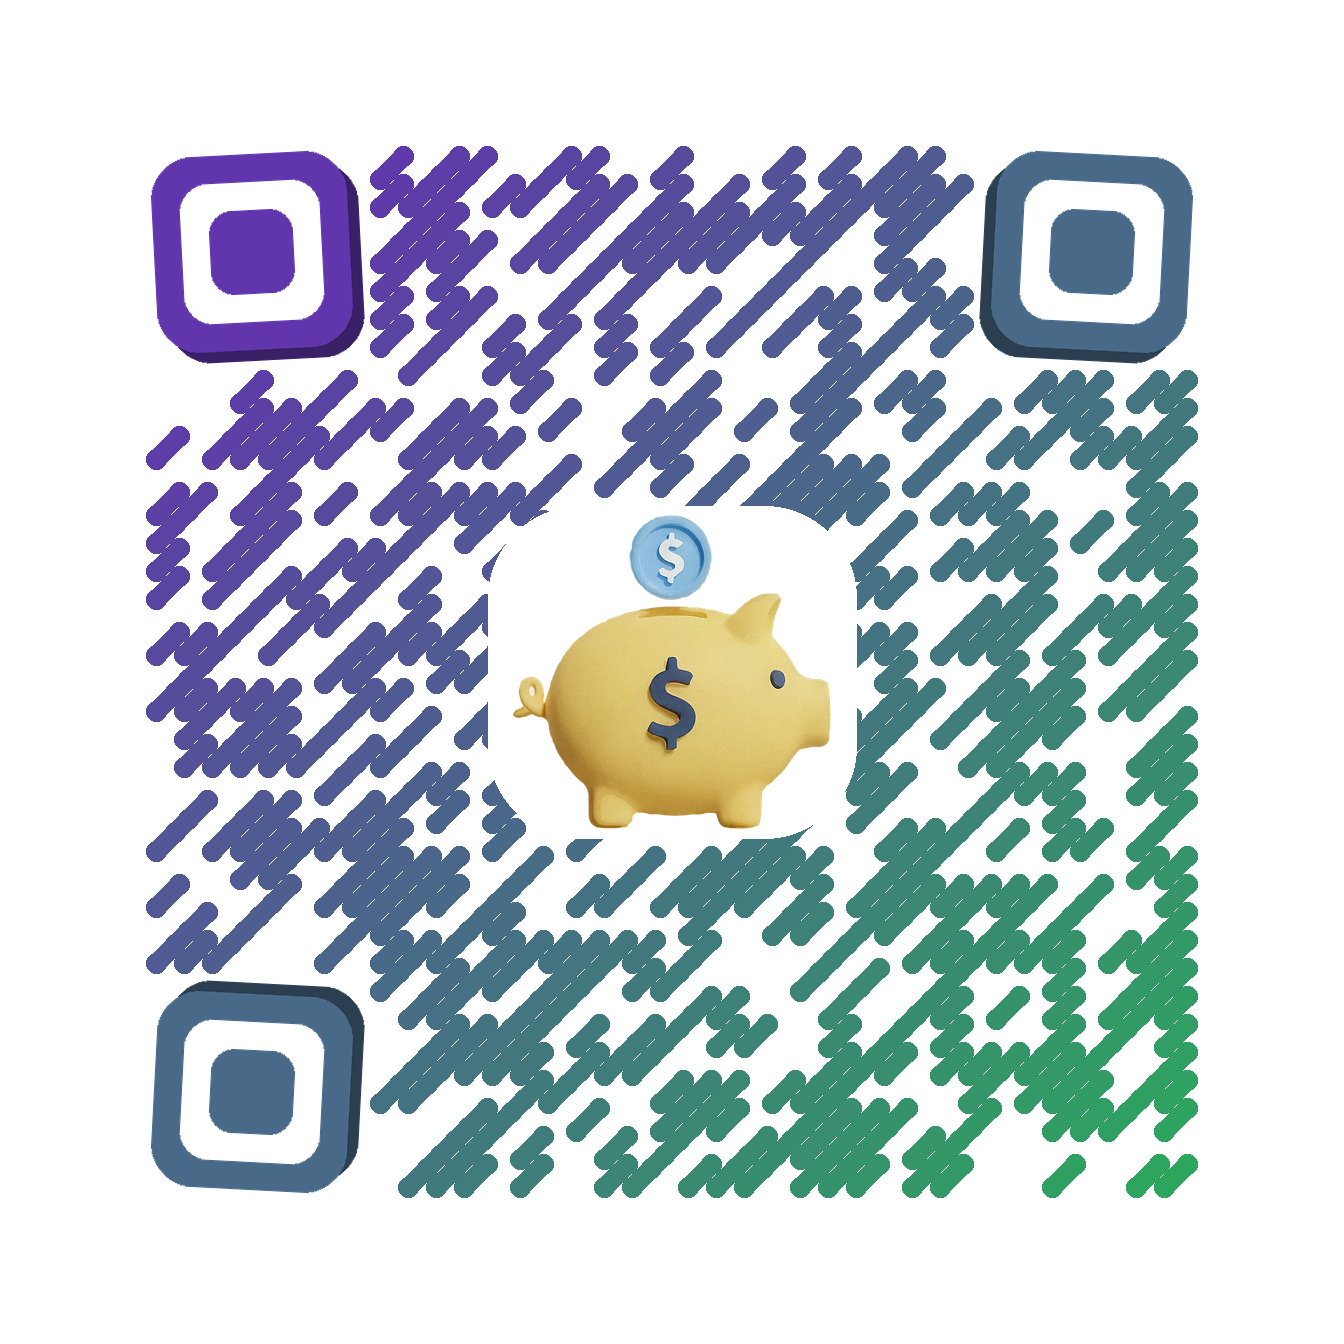
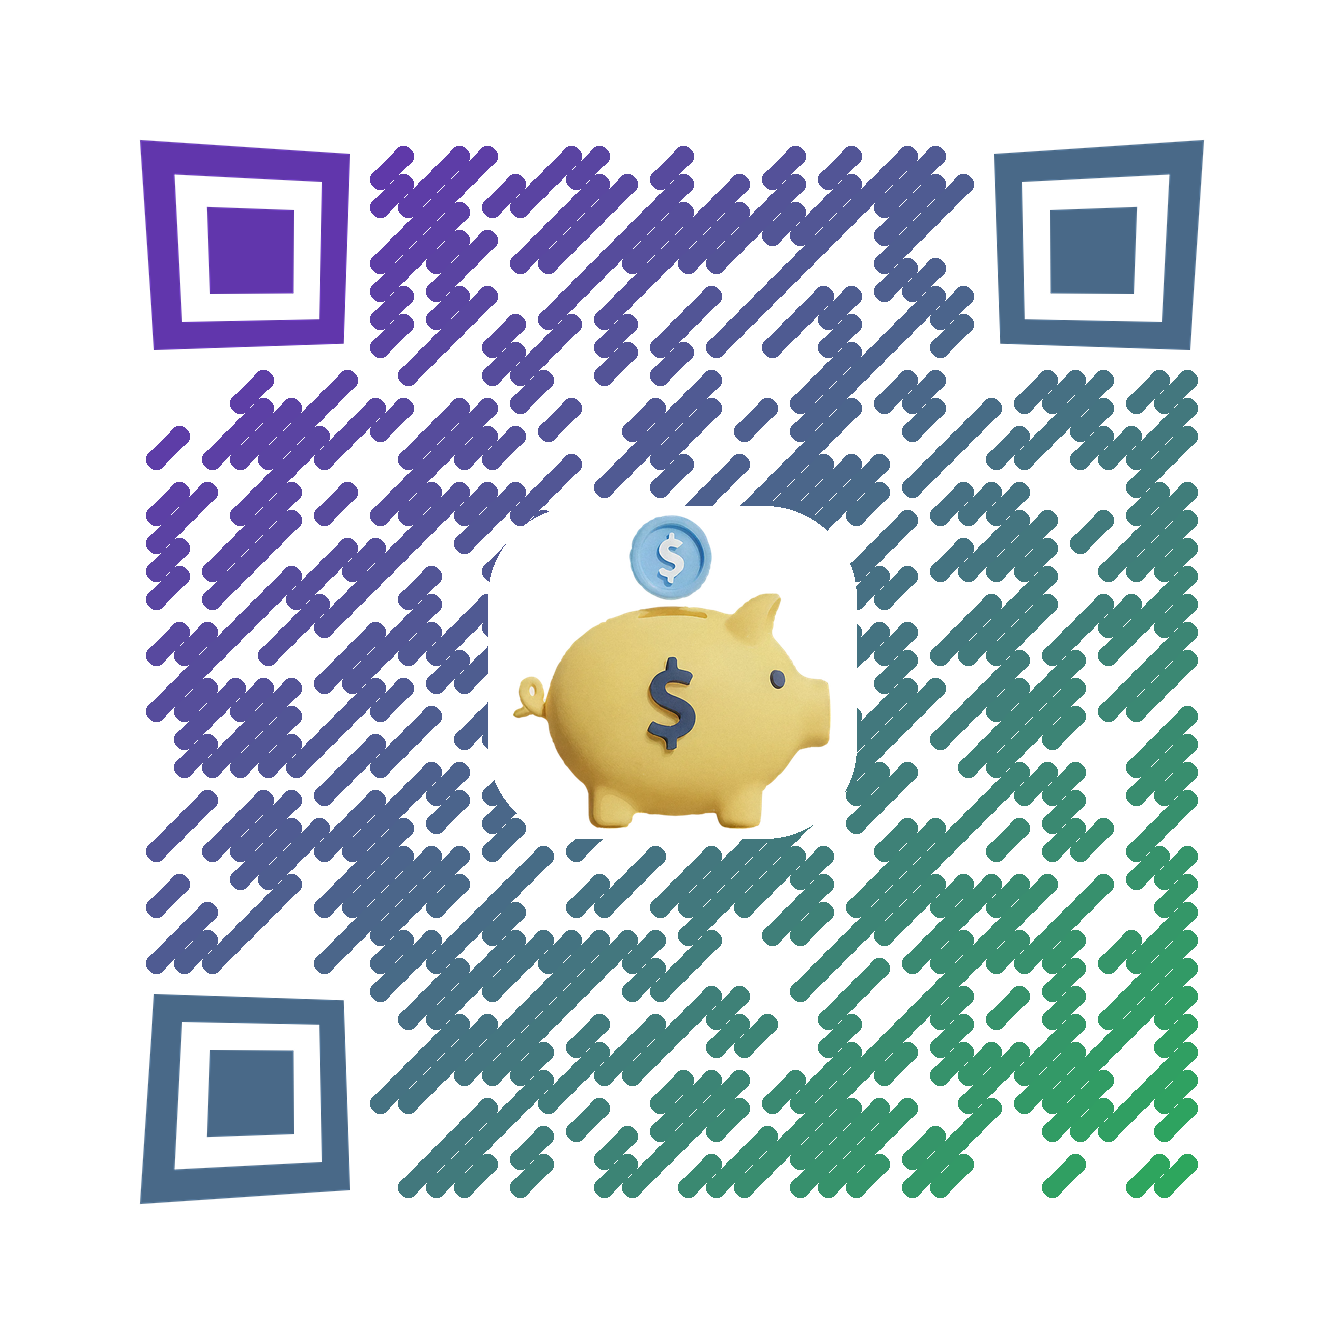
Swap finders to single sharp trapezoids with inner dark square
Non-rounded, single (no stack), perspective-leaning trapezoid finders,
inner square on all three corners. lean 0.5 holds decode at 10/10.

Claude-Session: https://claude.ai/code/session_011P3ggmPFRxPjArGTbVbY72

Changed region(s): [[0.0938, 0.0938, 0.2812, 0.2812], [0.7188, 0.0938, 0.9062, 0.2812], [0.0938, 0.7188, 0.2812, 0.9062]]

diff --git a/generate_qr_sample_bank.py b/generate_qr_sample_bank.py
@@ -60,34 +60,37 @@ def draw_diagonal(draw, m, off, qrpx):
                 draw.ellipse([px - rr, py - rr, px + rr, py + rr], fill=color + (255,))
 
 
-def draw_finder_stacked(canvas, tlpx, color, corner, tilt=3):
-    """Rounded-square ring + filled center + offset 'shadow' ring behind, then
-    the whole finder tilted a few degrees for the casual stacked look from the
-    reference. Every corner keeps its inner square. Tilt is capped low: past
-    ~4 deg the finder stops decoding (that askew look is why the reference
-    scans poorly)."""
+def _coeffs(target, source):
+    A, B = [], []
+    for (xt, yt), (xs, ys) in zip(target, source):
+        A.append([xt, yt, 1, 0, 0, 0, -xt * xs, -yt * xs])
+        A.append([0, 0, 0, xt, yt, 1, -xt * ys, -yt * ys]); B += [xs, ys]
+    return np.linalg.solve(np.array(A, float), np.array(B, float))
+
+
+def draw_finder_stacked(canvas, tlpx, color, corner, lean=0.5):
+    """Single sharp-cornered trapezoid finder: a square frame + inner filled
+    square, perspective-warped into a leaning trapezoid. No rounding, no
+    stack. Inner dark square on every corner. lean 0.5 keeps decode at 10/10."""
     x0, y0 = tlpx; s = FINDER * MODULE; pad = MODULE * 2
     size = s + 2 * pad
     layer = Image.new("RGBA", (size, size), (0, 0, 0, 0)); d = ImageDraw.Draw(layer)
-    shadow = tuple(int(ch * 0.60) for ch in color)
-
-    def ring(dx, dy, col):
-        d.rounded_rectangle([pad + dx, pad + dy, pad + s - 1 + dx, pad + s - 1 + dy],
-                            radius=int(MODULE * 1.5), fill=col + (255,))
-        d.rounded_rectangle([pad + MODULE + dx, pad + MODULE + dy,
-                             pad + s - MODULE - 1 + dx, pad + s - MODULE - 1 + dy],
-                            radius=int(MODULE * 1.0), fill=(0, 0, 0, 0))
-    off = int(MODULE * 0.40)
-    sx = off if corner in ("tl", "bl") else -off
-    sy = off if corner in ("tl", "tr") else -off
-    ring(sx, sy, shadow)
-    ring(0, 0, color)
+    d.rectangle([pad, pad, pad + s - 1, pad + s - 1], fill=color + (255,))
+    d.rectangle([pad + MODULE, pad + MODULE, pad + s - MODULE - 1, pad + s - MODULE - 1],
+                fill=(0, 0, 0, 0))
     cp = 2 * MODULE
-    d.rounded_rectangle([pad + cp, pad + cp, pad + s - cp - 1, pad + s - cp - 1],
-                        radius=int(MODULE * 0.85), fill=color + (255,))
-    ang = {"tl": tilt, "tr": -tilt, "bl": -tilt}[corner]
-    if ang:
-        layer = layer.rotate(ang, resample=Image.BICUBIC, center=(pad + s / 2, pad + s / 2))
+    d.rectangle([pad + cp, pad + cp, pad + s - cp - 1, pad + s - cp - 1], fill=color + (255,))
+    push = MODULE * 1.0 * lean; pull = MODULE * 0.45 * lean
+    tl, tr = [pad, pad], [pad + s, pad]; br, bl = [pad + s, pad + s], [pad, pad + s]
+    if corner == "tl":
+        tl = [pad - push, pad - push]; br = [pad + s - pull, pad + s - pull]
+    elif corner == "tr":
+        tr = [pad + s + push, pad - push]; bl = [pad + pull, pad + s - pull]
+    elif corner == "bl":
+        bl = [pad - push, pad + s + push]; tr = [pad + s - pull, pad + pull]
+    coeffs = _coeffs([tl, tr, br, bl],
+                     [[pad, pad], [pad + s, pad], [pad + s, pad + s], [pad, pad + s]])
+    layer = layer.transform((size, size), Image.PERSPECTIVE, coeffs, resample=Image.BICUBIC)
     canvas.alpha_composite(layer, dest=(int(x0 - pad), int(y0 - pad)))
 
 
